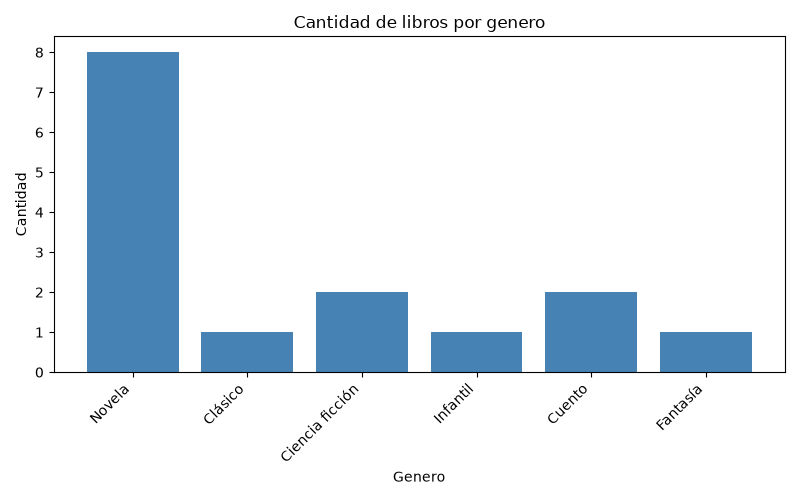
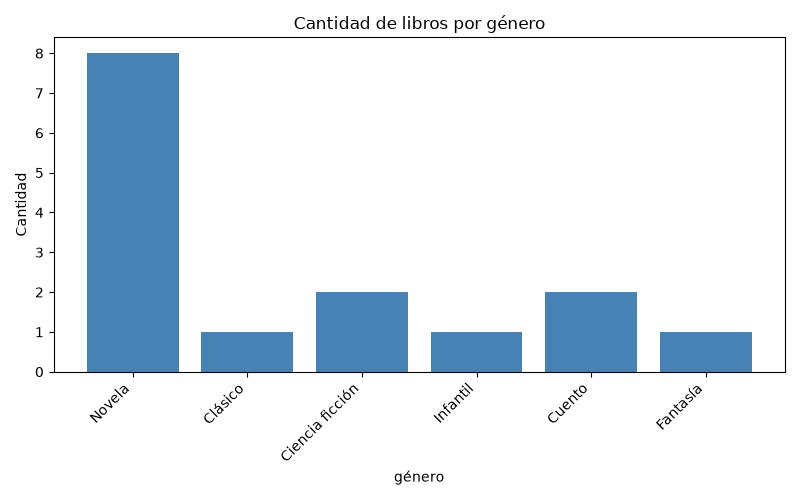
corrijo el bug duplicado

diff --git a/funciones.py b/funciones.py
@@ -13,7 +13,7 @@ from typing import Any
 ARCHIVO_DATOS = "datos.json"
 ARCHIVO_GRAFICO = "libros_por_genero.png"
 
-CAMPOS = ["titulo", "autor", "genero", "anio", "precio", "calificacion", "paginas", "stock"]
+CAMPOS = ["título", "autor", "género", "año", "precio", "calificación", "páginas", "stock"]
 
 
 def cargar_catalogo(archivo: str) -> list[dict[str, Any]]:
@@ -65,21 +65,21 @@ def guardar_catalogo(catalogo: list[dict[str, Any]], archivo: str) -> None:
 
 def validar_libro(libro: dict[str, Any]) -> None:
     """Valida los datos de un libro y lanza ValueError si algo no es correcto."""
-    anio_actual = datetime.now().year
+    año_actual = datetime.now().year
 
-    if not str(libro["titulo"]).strip():
-        raise ValueError("El titulo no puede estar vacio.")
+    if not str(libro["título"]).strip():
+        raise ValueError("El título no puede estar vacio.")
     if not str(libro["autor"]).strip():
         raise ValueError("El autor no puede estar vacio.")
-    if not str(libro["genero"]).strip():
-        raise ValueError("El genero no puede estar vacio.")
+    if not str(libro["género"]).strip():
+        raise ValueError("El género no puede estar vacio.")
 
     try:
-        anio = int(libro["anio"])
+        año = int(libro["año"])
     except (ValueError, TypeError):
-        raise ValueError("El anio debe ser un numero entero.")
-    if anio < 1000 or anio > anio_actual:
-        raise ValueError(f"El anio debe estar entre 1000 y {anio_actual}.")
+        raise ValueError("El año debe ser un numero entero.")
+    if año < 1000 or año > año_actual:
+        raise ValueError(f"El año debe estar entre 1000 y {año_actual}.")
 
     try:
         precio = float(libro["precio"])
@@ -89,18 +89,18 @@ def validar_libro(libro: dict[str, Any]) -> None:
         raise ValueError("El precio no puede ser negativo.")
 
     try:
-        calificacion = float(libro["calificacion"])
+        calificación = float(libro["calificación"])
     except (ValueError, TypeError):
-        raise ValueError("La calificacion debe ser un numero.")
-    if not 0 <= calificacion <= 5:
-        raise ValueError("La calificacion debe estar entre 0 y 5.")
+        raise ValueError("La calificación debe ser un numero.")
+    if not 0 <= calificación <= 5:
+        raise ValueError("La calificación debe estar entre 0 y 5.")
 
     try:
-        paginas = int(libro["paginas"])
+        páginas = int(libro["páginas"])
     except (ValueError, TypeError):
-        raise ValueError("Las paginas deben ser un numero entero.")
-    if paginas <= 0:
-        raise ValueError("Las paginas deben ser un numero positivo.")
+        raise ValueError("Las páginas deben ser un numero entero.")
+    if páginas <= 0:
+        raise ValueError("Las páginas deben ser un numero positivo.")
 
     try:
         stock = int(libro["stock"])
@@ -121,13 +121,13 @@ def agregar_libro(catalogo: list[dict[str, Any]], libro: dict[str, Any]) -> None
     """Valida y agrega un libro al catalogo, asignandole un id unico."""
     libro_limpio = {
         "id": siguiente_id(catalogo),
-        "titulo": str(libro["titulo"]).strip(),
+        "título": str(libro["título"]).strip(),
         "autor": str(libro["autor"]).strip(),
-        "genero": str(libro["genero"]).strip(),
-        "anio": int(libro["anio"]),
+        "género": str(libro["género"]).strip(),
+        "año": int(libro["año"]),
         "precio": float(libro["precio"]),
-        "calificacion": float(libro["calificacion"]),
-        "paginas": int(libro["paginas"]),
+        "calificación": float(libro["calificación"]),
+        "páginas": int(libro["páginas"]),
         "stock": int(libro["stock"]),
     }
     try:
@@ -136,7 +136,7 @@ def agregar_libro(catalogo: list[dict[str, Any]], libro: dict[str, Any]) -> None
         print(f"Libro no agregado: {error}")
         return
     catalogo.append(libro_limpio)
-    print(f"Libro '{libro_limpio['titulo']}' agregado con id {libro_limpio['id']}.")
+    print(f"Libro '{libro_limpio['título']}' agregado con id {libro_limpio['id']}.")
 
 
 def eliminar_libro(catalogo: list[dict[str, Any]], id_libro: int) -> None:
@@ -144,7 +144,7 @@ def eliminar_libro(catalogo: list[dict[str, Any]], id_libro: int) -> None:
     for i, libro in enumerate(catalogo):
         if libro.get("id") == id_libro:
             eliminado = catalogo.pop(i)
-            print(f"Libro '{eliminado['titulo']}' (id {eliminado['id']}) eliminado.")
+            print(f"Libro '{eliminado['título']}' (id {eliminado['id']}) eliminado.")
             return
     print(f"No se encontro un libro con id {id_libro}.")
 
@@ -165,7 +165,7 @@ def modificar_libro(catalogo: list[dict[str, Any]], id_libro: int, campo: str, v
                 print(f"No se modifico: {error}")
                 return
             libro[campo] = valor
-            print(f"Libro '{libro['titulo']}' (id {libro['id']}) actualizado ({campo} = {valor}).")
+            print(f"Libro '{libro['título']}' (id {libro['id']}) actualizado ({campo} = {valor}).")
             return
     print(f"No se encontro un libro con id {id_libro}.")
 
@@ -178,10 +178,10 @@ def buscar_por_id(catalogo: list[dict[str, Any]], id_libro: int) -> dict[str, An
     return None
 
 
-def buscar_por_genero(catalogo: list[dict[str, Any]], genero: str) -> list[dict[str, Any]]:
-    """Devuelve los libros cuyo genero coincide (sin distinguir mayusculas)."""
-    genero = genero.strip().lower()
-    return [libro for libro in catalogo if libro["genero"].lower() == genero]
+def buscar_por_género(catalogo: list[dict[str, Any]], género: str) -> list[dict[str, Any]]:
+    """Devuelve los libros cuyo género coincide (sin distinguir mayúsculas)."""
+    género = género.strip().lower()
+    return [libro for libro in catalogo if libro["género"].lower() == género]
 
 
 def buscar_por_autor(catalogo: list[dict[str, Any]], autor: str) -> list[dict[str, Any]]:
@@ -190,9 +190,9 @@ def buscar_por_autor(catalogo: list[dict[str, Any]], autor: str) -> list[dict[st
     return [libro for libro in catalogo if autor in libro["autor"].lower()]
 
 
-def filtrar_por_anio(catalogo: list[dict[str, Any]], anio_min: int, anio_max: int) -> list[dict[str, Any]]:
-    """Devuelve los libros publicados dentro del rango de anios."""
-    return [libro for libro in catalogo if anio_min <= libro["anio"] <= anio_max]
+def filtrar_por_año(catalogo: list[dict[str, Any]], año_min: int, año_max: int) -> list[dict[str, Any]]:
+    """Devuelve los libros publicados dentro del rango de años."""
+    return [libro for libro in catalogo if año_min <= libro["año"] <= año_max]
 
 
 def calcular_indicadores(catalogo: list[dict[str, Any]]) -> dict[str, Any]:
@@ -201,21 +201,21 @@ def calcular_indicadores(catalogo: list[dict[str, Any]]) -> dict[str, Any]:
         return {}
 
     total = len(catalogo)
-    promedio_calificacion = sum(libro["calificacion"] for libro in catalogo) / total
-    promedio_anio = sum(libro["anio"] for libro in catalogo) / total
+    promedio_calificación = sum(libro["calificación"] for libro in catalogo) / total
+    promedio_año = sum(libro["año"] for libro in catalogo) / total
     valor_total_stock = sum(libro["precio"] * libro["stock"] for libro in catalogo)
-    mas_calificado = max(catalogo, key=lambda libro: libro["calificacion"])
-    libros_por_genero: dict[str, int] = {}
+    mas_calificado = max(catalogo, key=lambda libro: libro["calificación"])
+    libros_por_género: dict[str, int] = {}
     for libro in catalogo:
-        libros_por_genero[libro["genero"]] = libros_por_genero.get(libro["genero"], 0) + 1
+        libros_por_género[libro["género"]] = libros_por_género.get(libro["género"], 0) + 1
 
     return {
         "total_libros": total,
-        "promedio_calificacion": round(promedio_calificacion, 2),
-        "promedio_anio": round(promedio_anio, 1),
+        "promedio_calificación": round(promedio_calificación, 2),
+        "promedio_año": round(promedio_año, 1),
         "valor_total_stock": valor_total_stock,
-        "mas_calificado": mas_calificado["titulo"],
-        "libros_por_genero": libros_por_genero,
+        "mas_calificado": mas_calificado["título"],
+        "libros_por_género": libros_por_género,
     }
 
 
@@ -229,12 +229,12 @@ def generar_grafico(catalogo: list[dict[str, Any]], archivo_salida: str) -> None
 
     generos: dict[str, int] = {}
     for libro in catalogo:
-        generos[libro["genero"]] = generos.get(libro["genero"], 0) + 1
+        generos[libro["género"]] = generos.get(libro["género"], 0) + 1
 
     plt.figure(figsize=(8, 5))
     plt.bar(generos.keys(), generos.values(), color="steelblue")
-    plt.title("Cantidad de libros por genero")
-    plt.xlabel("Genero")
+    plt.title("Cantidad de libros por género")
+    plt.xlabel("género")
     plt.ylabel("Cantidad")
     plt.xticks(rotation=45, ha="right")
     plt.tight_layout()
@@ -248,12 +248,12 @@ def mostrar_catalogo(catalogo: list[dict[str, Any]]) -> None:
     if not catalogo:
         print("El catalogo esta vacio.")
         return
-    print(f"\n{'Id':>3} {'Titulo':<28} {'Autor':<24} {'Genero':<16} {'Anio':>5} {'Precio':>8} {'Calif.':>6} {'Stock':>5}")
+    print(f"\n{'Id':>3} {'Titulo':<28} {'Autor':<24} {'Genero':<16} {'Año':>5} {'Precio':>8} {'Calif.':>6} {'Stock':>5}")
     print("-" * 108)
     for libro in catalogo:
         print(
-            f"{libro['id']:>3} {libro['titulo']:<28} {libro['autor']:<24} {libro['genero']:<16} "
-            f"{libro['anio']:>5} {libro['precio']:>8.0f} {libro['calificacion']:>6.1f} {libro['stock']:>5}"
+            f"{libro['id']:>3} {libro['título']:<28} {libro['autor']:<24} {libro['género']:<16} "
+            f"{libro['año']:>5} {libro['precio']:>8.0f} {libro['calificación']:>6.1f} {libro['stock']:>5}"
         )
     print("-" * 108)
     print(f"Total: {len(catalogo)} libros\n")

diff --git a/main.py b/main.py
@@ -13,12 +13,12 @@ from funciones import (
     CAMPOS,
     agregar_libro,
     buscar_por_autor,
-    buscar_por_genero,
+    buscar_por_género,
     buscar_por_id,
     calcular_indicadores,
     cargar_catalogo,
     eliminar_libro,
-    filtrar_por_anio,
+    filtrar_por_año,
     generar_grafico,
     guardar_catalogo,
     modificar_libro,
@@ -79,20 +79,20 @@ def pedir_decimal_opcional(mensaje: str) -> float | None:
         try:
             return float(entrada)
         except ValueError:
-            print("Entrada invalida: ingrese un numero.")
+            print("Entrada invalida: ingrese un número.")
 
 
 def menu_agregar(catalogo: list) -> None:
     """Recopila los datos de un nuevo libro y lo agrega al catalogo."""
     print("\n--- Agregar libro ---")
     libro = {
-        "titulo": input("Titulo: "),
+        "título": input("Título: "),
         "autor": input("Autor: "),
-        "genero": input("Genero: "),
-        "anio": pedir_entero("Anio de publicacion: "),
+        "género": input("Género: "),
+        "año": pedir_entero("Año de publicación: "),
         "precio": pedir_decimal("Precio: "),
-        "calificacion": pedir_decimal("Calificacion (0 a 5): "),
-        "paginas": pedir_entero("Cantidad de paginas: "),
+        "calificación": pedir_decimal("Calificación (0 a 5): "),
+        "páginas": pedir_entero("Cantidad de páginas: "),
         "stock": pedir_entero("Stock: "),
     }
     agregar_libro(catalogo, libro)
@@ -102,32 +102,32 @@ def menu_indicadores(catalogo: list) -> None:
     """Muestra los indicadores calculados sobre el catalogo."""
     indicadores = calcular_indicadores(catalogo)
     if not indicadores:
-        print("El catalogo esta vacio, no hay indicadores para calcular.")
+        print("El catalogo esta vacío, no hay indicadores para calcular.")
         return
     print("\n--- Indicadores ---")
     print(f"Total de libros: {indicadores['total_libros']}")
-    print(f"Calificacion promedio: {indicadores['promedio_calificacion']}")
-    print(f"Anio promedio de publicacion: {indicadores['promedio_anio']}")
+    print(f"Calificación promedio: {indicadores['promedio_calificación']}")
+    print(f"Año promedio de publicación: {indicadores['promedio_año']}")
     print(f"Valor total del stock: ${indicadores['valor_total_stock']:,.0f}")
     print(f"Libro mejor calificado: {indicadores['mas_calificado']}")
-    print("Libros por genero:")
-    for genero, cantidad in indicadores["libros_por_genero"].items():
-        print(f"  - {genero}: {cantidad}")
+    print("Libros por género:")
+    for género, cantidad in indicadores["libros_por_género"].items():
+        print(f"  - {género}: {cantidad}")
 
 
 def menu_eliminar(catalogo: list) -> None:
     """Pide un id y elimina el libro correspondiente, mostrando cual es y confirmando."""
     id_libro = pedir_entero_opcional("Id del libro a eliminar (Enter para cancelar): ")
     if id_libro is None:
-        print("Eliminacion cancelada.")
+        print("Eliminación cancelada.")
         return
     libro = buscar_por_id(catalogo, id_libro)
     if libro is None:
-        print(f"No se encontro un libro con id {id_libro}.")
+        print(f"No se encontró un libro con id {id_libro}.")
         return
-    confirmar = input(f"Eliminar '{libro['titulo']}' (id {id_libro})? (s/n): ").strip().lower()
+    confirmar = input(f"Eliminar '{libro['título']}' (id {id_libro})? (s/n): ").strip().lower()
     if confirmar != "s":
-        print("Eliminacion cancelada.")
+        print("Eliminación cancelada.")
         return
     eliminar_libro(catalogo, id_libro)
 
@@ -136,73 +136,73 @@ def menu_modificar(catalogo: list) -> None:
     """Pide un id, muestra el libro y pide confirmacion antes de modificar. Se puede cancelar."""
     id_libro = pedir_entero_opcional("Id del libro a modificar (Enter para cancelar): ")
     if id_libro is None:
-        print("Modificacion cancelada.")
+        print("Modificación cancelada.")
         return
     libro = buscar_por_id(catalogo, id_libro)
     if libro is None:
-        print(f"No se encontro un libro con id {id_libro}.")
+        print(f"No se encontró un libro con id {id_libro}.")
         return
-    print(f"Libro: '{libro['titulo']}' - {libro['autor']} ({libro['genero']}, {libro['anio']})")
+    print(f"Libro: '{libro['título']}' - {libro['autor']} ({libro['género']}, {libro['año']})")
     confirmar = input("Es este el libro? (s/n): ").strip().lower()
     if confirmar != "s":
-        print("Modificacion cancelada.")
+        print("Modificación cancelada.")
         return
     print(f"Campos disponibles: {', '.join(CAMPOS)}")
     campo = input("Campo a modificar (Enter para cancelar): ").strip().lower()
     if campo == "":
-        print("Modificacion cancelada.")
+        print("Modificación cancelada.")
         return
     if campo not in CAMPOS:
         print("Campo invalido.")
         return
-    if campo in ("anio", "paginas", "stock"):
+    if campo in ("año", "páginas", "stock"):
         valor = pedir_entero_opcional(f"Nuevo valor para {campo} (Enter para cancelar): ")
-    elif campo in ("precio", "calificacion"):
+    elif campo in ("precio", "calificación"):
         valor = pedir_decimal_opcional(f"Nuevo valor para {campo} (Enter para cancelar): ")
     else:
         valor = input(f"Nuevo valor para {campo} (Enter para cancelar): ")
         if valor == "":
-            print("Modificacion cancelada.")
+            print("Modificación cancelada.")
             return
     if valor is None:
-        print("Modificacion cancelada.")
+        print("Modificación cancelada.")
         return
     modificar_libro(catalogo, id_libro, campo, valor)
 
 
 def main() -> None:
-    """Bucle principal del menu de la aplicacion."""
+    """Bucle principal del menu de la aplicación."""
     catalogo = cargar_catalogo(ARCHIVO_DATOS)
 
     while True:
         print("\n=== Catalogo de libros ===")
         print("1. Ver catalogo")
         print("2. Agregar libro")
-        print("3. Buscar por genero")
+        print("3. Buscar por género")
         print("4. Buscar por autor")
-        print("5. Filtrar por anio")
+        print("5. Filtrar por año")
         print("6. Ver indicadores")
         print("7. Generar grafico")
         print("8. Eliminar libro")
         print("9. Modificar libro")
         print("10. Guardar y salir")
 
-        opcion = input("Elegir opcion: ").strip()
+        opcion = input("Elegir opción: ").strip()
 
         if opcion == "1":
             mostrar_catalogo(catalogo)
         elif opcion == "2":
             menu_agregar(catalogo)
         elif opcion == "3":
-            genero = input("Genero a buscar: ")
-            mostrar_catalogo(buscar_por_genero(catalogo, genero))
+            género = input("Género a buscar: ")
+            mostrar_catalogo(buscar_por_género(catalogo, género))
         elif opcion == "4":
             autor = input("Autor a buscar: ")
             mostrar_catalogo(buscar_por_autor(catalogo, autor))
         elif opcion == "5":
-            anio_min = pedir_entero("Anio minimo: ")
-            anio_max = pedir_entero("Anio maximo: ")
-            mostrar_catalogo(filtrar_por_anio(catalogo, anio_min, anio_max))
+            año_min = pedir_entero("Año mínimo: ")
+            año_max = pedir_entero("Año máximo: ")
+            mostrar_catalogo(filtrar_por_año(catalogo, año_min, año_max))
         elif opcion == "6":
             menu_indicadores(catalogo)
         elif opcion == "7":
@@ -216,7 +216,7 @@ def main() -> None:
             print("Catalogo guardado. Hasta luego.")
             break
         else:
-            print("Opcion invalida. Intente de nuevo.")
+            print("Opción inválida. Intente de nuevo.")
 
 
 if __name__ == "__main__":
